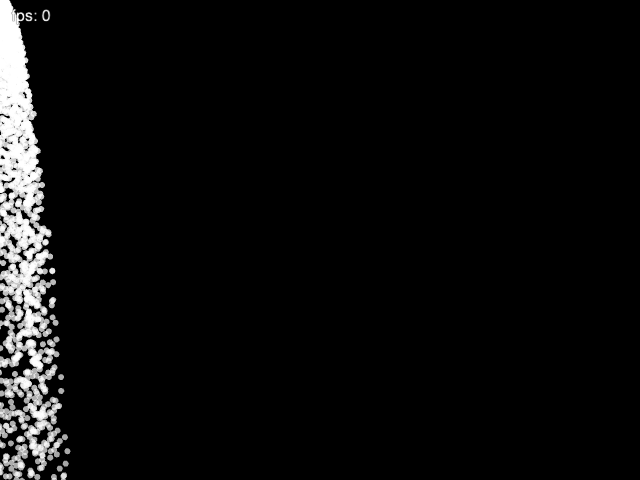
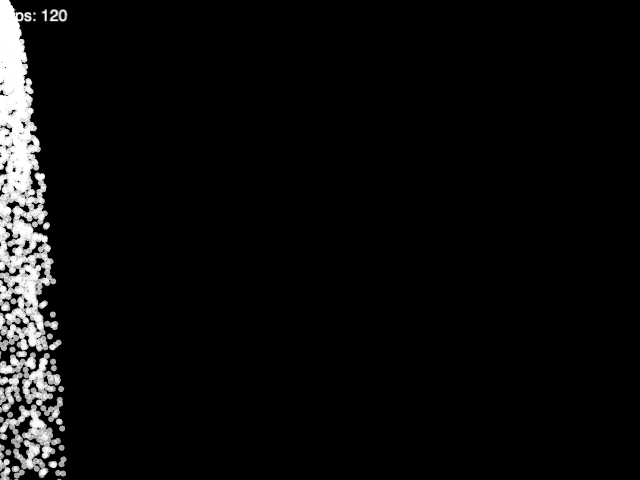
chore(shots): Performance 系の実行結果画像を release で撮り fps を実数にする (#727) (#975)
## 目的

`Examples/Demos/Performance/**` の実行結果画像は、スケッチが描く HUD が **`fps: 0`**
のまま写っていました（#727）。HUD は `fint = 3` 秒ごとにしか `frate` を更新しないので、撮影の既定 `settle
= 1.5` 秒では初回の計算前 = 0 が焼かれます。**「fps を見せるための
example」なのに、画像にその数字が出ていない**状態でした。

単に `settle` を伸ばすだけでは足りません。撮影は debug ビルドなので、**利用者が `swift run -c release`
で見る数字とは別物**が焼かれます。Issue の選択肢 1（release で撮る）と 2（settle を伸ばす）を、**HUD を持つ 4
本に限って併用**しました。

Issue 本文が懸念した「全 example の撮影時間が伸びる」は該当しません。実測でキャッシュ無しの 1 本が **release
26.3 秒 / debug 9.1 秒（+17 秒）** で、全 262 本なら +70 分ですが、**HUD を持つ 4 本だけなら +68
秒**です。

## 変更点

- **`scripts/generate-example-shots.py`** — 設定の `"release": true` を読む
`release_for()` と、`swift build` / `swift run` **双方**へ `-c release` を渡す
`swift_command()` を追加（ビルドだけ release にしても、走らせるのが debug
バイナリなら画面の数字は変わらない）。既定から外れた 1 枚は台帳へ `"build": "release"`
として残し、数字の出所が後から分かるようにする
- **`docs/ai/examples-shots.config.json`** — 該当 4 本に `release` と
`settle` を追加
- **`scripts/tests/test_generate_example_shots.py`** —
`TestReleaseBuild` を 5 件追加。**先に赤くしてから実装**しています（`release_for` /
`swift_command` は `AttributeError`、`capture()` は `TypeError: unexpected
keyword argument 'release'`）
- **`Examples/README.md`** — `release` 申告の説明
- 対象 4 枚の PNG と台帳 `docs/ai/examples-shots.json`

影響したのは 4 本だけです。`CubicGridRetained` / `DynamicParticlesRetained`
はスタブで画像が無く、`LineRendering` / `QuadRendering` / `TextRendering` は fps を
stdout へ `print` するだけで HUD を持ちません。

## before / after（画像の左上に焼かれた数字）

> [!NOTE]
> **1Password がロックされていて Gyazo へ画像を上げられませんでした。** 数字は 4
[…]

Changed region(s): [[0.0, 0.0, 0.125, 1.0]]

diff --git a/scripts/generate-example-shots.py b/scripts/generate-example-shots.py
@@ -45,6 +45,15 @@ LoadDisplayOBJ は contentFraction 0、Flocking は 0.001）。そこで:
 `docs/ai/examples-shots.config.json` に `{"<パス>": {"settle": 秒}}` で書く
 （台帳は生成物なので、手書きの設定とは分ける）。
 
+## release ビルドで撮る example（#727）
+
+撮影は既定で debug ビルド。**画面に fps を出す example だけ**は同じ設定ファイルに
+`{"release": true}` を書いて `swift build -c release` / `swift run -c release` で撮る。
+debug の数字を焼くと、利用者が `swift run -c release` で見る数字と別物になるため
+（`Examples/Demos/Performance/**` の HUD は 3 秒ごとにしか更新しないので、`settle` も
+あわせて 3 秒超にする）。全 262 本を release にはしない — 1 本あたり +17 秒（実測
+26.3 秒 vs 9.1 秒）で、全体では 1 時間以上増えるのに、絵の確認には効かない。
+
 ## 入力が要る example（#509 / #610）
 
 マウス・キーボードで絵が決まる example は、入力が無いと「原点 = 画面左上に描かれた
@@ -215,6 +224,25 @@ def settle_for(path: str, config: dict[str, dict]) -> float:
     return float(settle)
 
 
+def release_for(path: str, config: dict[str, dict]) -> bool:
+    """release ビルドで撮る申告があるか（既定は debug / #727）。"""
+    entry = config.get(path) or {}
+    release = entry.get("release", False)
+    # "yes" や 1 を真と読むと、申告したつもりが黙って debug のままになる。
+    if not isinstance(release, bool):
+        raise ShotError(f"{CONFIG.name} の '{path}' の release が true/false でない: {release!r}")
+    return release
+
+
+def swift_command(verb: str, release: bool) -> list[str]:
+    """`swift build` / `swift run` のコマンド列。
+
+    申告があれば**両方**に `-c release` を渡す。ビルドだけ release にしても、
+    走らせるのが debug バイナリなら画面の数字は変わらない。
+    """
+    return ["swift", verb, *(["-c", "release"] if release else [])]
+
+
 def load_manifest() -> dict:
     if not MANIFEST.is_file():
         return {}
@@ -301,7 +329,7 @@ def current_frame(output_dir: Path, request_id: str) -> dict | None:
     return data if data.get("id") == request_id else None
 
 
-def capture(path: str, destination: Path, settle: float) -> dict:
+def capture(path: str, destination: Path, settle: float, release: bool = False) -> dict:
     """example を 1 本撮って、台帳のエントリを返す。"""
     package = package_dir_for(path)
     if not (package / "Package.swift").is_file():
@@ -329,7 +357,9 @@ def capture(path: str, destination: Path, settle: float) -> dict:
         request if still else {"id": warmup_id, "label": f"{package.name} (warmup)", "scale": 1.0}
     )
 
-    build = subprocess.run(["swift", "build"], cwd=package, capture_output=True, text=True)
+    build = subprocess.run(
+        swift_command("build", release), cwd=package, capture_output=True, text=True
+    )
     if build.returncode != 0:
         raise ShotError(f"'{path}' のビルドに失敗した:\n{build.stdout[-1500:]}\n{build.stderr[-1500:]}")
 
@@ -337,7 +367,7 @@ def capture(path: str, destination: Path, settle: float) -> dict:
     env["METAPHOR_PROBE"] = "1"
     env["METAPHOR_VIEWER"] = "1"  # ヘッドレス（ウィンドウを開かない）
     process = subprocess.Popen(
-        ["swift", "run"],
+        swift_command("run", release),
         cwd=package,
         env=env,
         stdin=subprocess.PIPE,  # 入力台本を流す経路（#610）
@@ -403,6 +433,10 @@ def capture(path: str, destination: Path, settle: float) -> dict:
         "origin": ORIGIN_CAPTURED,
         "sourceHash": source_fingerprint(path),
     }
+    # 画面に焼かれた数字（fps）は build configuration で変わるので、既定から外れた
+    # ものだけ来歴として残す（#727）。debug は既定なので書かない。
+    if release:
+        entry["build"] = "release"
     # 指紋はパッケージ配下しか見ないので、ライブラリ本体の変更は拾えない（#586）。
     # 撮った実装を来歴として残し、あとから隔たりを数えられるようにする。
     provenance = capture_provenance(REPO_ROOT)
@@ -440,7 +474,7 @@ def compare(paths: list[str], config: dict[str, dict]) -> list[Path]:
         original = image_path_for(path)
         shot = COMPARE_DIR / "shots" / f"{package.name}.png"
         print(f"capturing {path}", flush=True)
-        capture(path, shot, settle_for(path, config))
+        capture(path, shot, settle_for(path, config), release_for(path, config))
         cell = f"{index:03d}-{package.name}.png"
         width, height = COMPARE_CELL
         run_ffmpeg(
@@ -592,9 +626,11 @@ def main() -> int:
             return 0
 
         for index, path in enumerate(targets, start=1):
-            print(f"[{index}/{len(targets)}] capturing {path}", flush=True)
+            release = release_for(path, config)
+            note = "（release ビルド）" if release else ""
+            print(f"[{index}/{len(targets)}] capturing {path}{note}", flush=True)
             image = image_path_for(path)
-            shots[path] = capture(path, image, settle_for(path, config))
+            shots[path] = capture(path, image, settle_for(path, config), release)
             # 1 本ずつ台帳を確定させる。中断しても済んだぶんは整合したまま残る。
             save_manifest(shots)
             size = image.stat().st_size

diff --git a/scripts/tests/test_generate_example_shots.py b/scripts/tests/test_generate_example_shots.py
@@ -18,9 +18,11 @@ Run from the repository root:
 import importlib.util
 import json
 import shutil
+import subprocess
 import sys
 import tempfile
 import unittest
+import unittest.mock
 from pathlib import Path
 
 _SCRIPT = Path(__file__).resolve().parents[1] / "generate-example-shots.py"
@@ -312,6 +314,52 @@ class TestSettle(ExampleShotsTestCase):
         self.write_config({"settings": {PATH: {"settle": "しばらく"}}})
         with self.assertRaises(gen.ShotError):
             gen.settle_for(PATH, gen.load_config())
+
+
+class TestReleaseBuild(ExampleShotsTestCase):
+    """release ビルドの申告（#727）。
+
+    画面に fps を出す example は、debug で撮ると「利用者が見ない数字」を焼く。
+    どの example を release で撮るかは手書き設定に持たせる。
+    """
+
+    def write_config(self, payload: dict) -> None:
+        gen.CONFIG.write_text(json.dumps(payload), encoding="utf-8")
+
+    def test_the_default_build_is_debug(self) -> None:
+        self.assertFalse(gen.release_for(PATH, gen.load_config()))
+
+    def test_a_config_entry_asks_for_release(self) -> None:
+        self.write_config({"settings": {PATH: {"release": True}}})
+        self.assertTrue(gen.release_for(PATH, gen.load_config()))
+
+    def test_a_non_boolean_release_is_an_error(self) -> None:
+        # "yes" や 1 を真と読むと、申告のつもりが黙って debug のままになる。
+        self.write_config({"settings": {PATH: {"release": "yes"}}})
+        with self.assertRaises(gen.ShotError):
+            gen.release_for(PATH, gen.load_config())
+
+    def test_the_flag_reaches_both_build_and_run(self) -> None:
+        # ビルドだけ release にしても、走らせるのが debug なら数字は変わらない。
+        self.assertEqual(gen.swift_command("build", True), ["swift", "build", "-c", "release"])
+        self.assertEqual(gen.swift_command("run", True), ["swift", "run", "-c", "release"])
+        self.assertEqual(gen.swift_command("build", False), ["swift", "build"])
+        self.assertEqual(gen.swift_command("run", False), ["swift", "run"])
+
+    def test_capture_builds_with_the_declared_configuration(self) -> None:
+        # 申告を読めても capture() が渡さなければ意味がない。ビルドを失敗させて
+        # 起動まで進ませず、swift build に渡った引数だけを見る。
+        self.package()
+        recorded: list[list[str]] = []
+
+        def fake_run(command, **_kwargs):
+            recorded.append(list(command))
+            return subprocess.CompletedProcess(command, 1, stdout="", stderr="")
+
+        with unittest.mock.patch.object(gen.subprocess, "run", fake_run):
+            with self.assertRaises(gen.ShotError):
+                gen.capture(PATH, self.root / "shot.png", 0.0, release=True)
+        self.assertEqual(recorded[0], ["swift", "build", "-c", "release"])
 
 
 if __name__ == "__main__":
